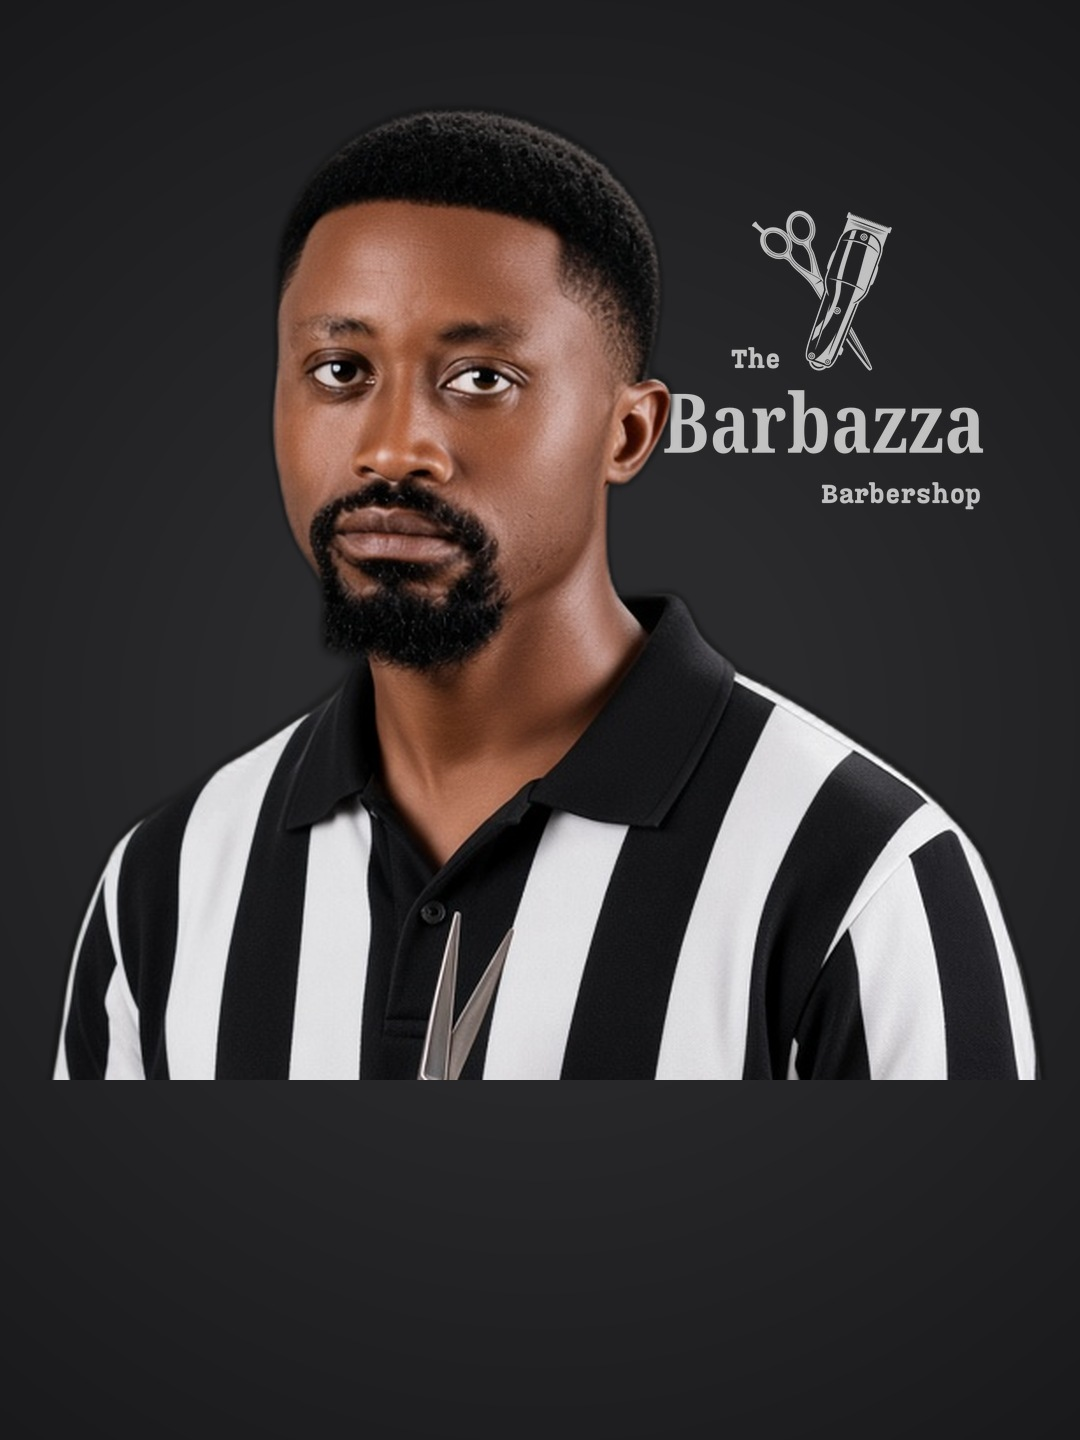
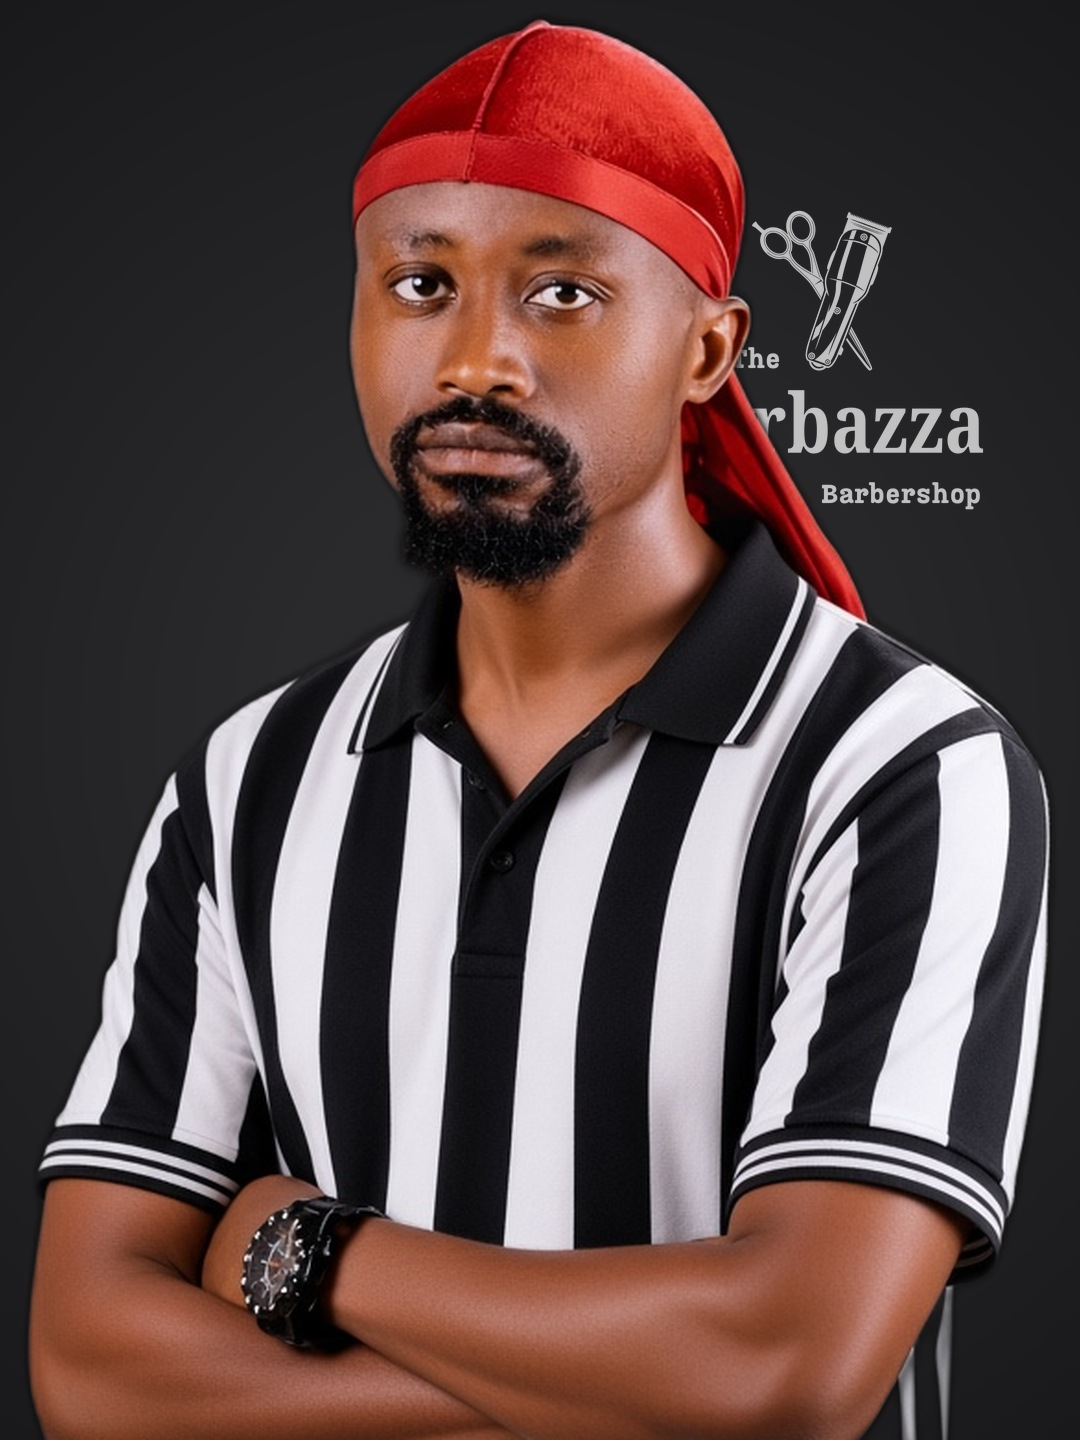
Add Kababa portrait and keep each barber’s original stance in color.

diff --git a/frontend/app/year-one/page.tsx b/frontend/app/year-one/page.tsx
@@ -1373,50 +1373,53 @@ Scene 7  Next / close     → VO → Topic I → walk floor → Topic J → logo
         <section className="ydoc-section" id="team-look">
           <h2>6b. Team in confirmed uniform (black &amp; white)</h2>
           <p>
-            Each barber in the confirmed Barbazza striped polo, holding clippers, black-and-white brand look, logo in
-            the background, different poses. Use as look references for posters / film stills — real faces preserved as
-            closely as the tools allow.
+            Each barber in the confirmed Barbazza striped polo, color portraits, logo in the background, each keeping
+            their own original stance (side, crossed arms, or front). Use as look references for posters / film stills.
           </p>
           <div className="ydoc-figures four">
             <figure className="ydoc-figure">
-              <img src="/year-one/team/barber-irakoze-bw.jpg" alt="Irakoze in Barbazza uniform with clippers" />
+              <img src="/year-one/team/barber-kababa-bw.jpg" alt="Innocent Kababa in Barbazza uniform, arms crossed" />
+              <figcaption>Innocent Kababa</figcaption>
+            </figure>
+            <figure className="ydoc-figure">
+              <img src="/year-one/team/barber-irakoze-bw.jpg" alt="Irakoze in Barbazza uniform" />
               <figcaption>Irakoze</figcaption>
             </figure>
             <figure className="ydoc-figure">
-              <img src="/year-one/team/barber-kabera-bw.jpg" alt="Kabera in Barbazza uniform with clippers" />
+              <img src="/year-one/team/barber-kabera-bw.jpg" alt="Kabera in Barbazza uniform, arms crossed" />
               <figcaption>Kabera</figcaption>
             </figure>
             <figure className="ydoc-figure">
               <img
                 src="/year-one/team/barber-damascene-bw.jpg"
-                alt="Damascene Hakizimana in Barbazza uniform with scissors"
+                alt="Damascene Hakizimana in Barbazza uniform, arms crossed"
               />
               <figcaption>Damascene Hakizimana</figcaption>
-            </figure>
-            <figure className="ydoc-figure">
-              <img src="/year-one/team/barber-flugency-bw.jpg" alt="Flugency in Barbazza uniform with clippers" />
-              <figcaption>Flugency</figcaption>
             </figure>
           </div>
           <div className="ydoc-figures four">
             <figure className="ydoc-figure">
+              <img src="/year-one/team/barber-flugency-bw.jpg" alt="Flugency in Barbazza uniform, arms crossed" />
+              <figcaption>Flugency</figcaption>
+            </figure>
+            <figure className="ydoc-figure">
               <img
                 src="/year-one/team/barber-eric-hakizimana-bw.jpg"
-                alt="Eric Hakizimana in Barbazza uniform with clippers"
+                alt="Eric Hakizimana in Barbazza uniform, arms folded"
               />
               <figcaption>Eric Hakizimana</figcaption>
             </figure>
             <figure className="ydoc-figure">
               <img
                 src="/year-one/team/barber-eric-kwizera-bw.jpg"
-                alt="Eric Kwizera in Barbazza uniform with clippers"
+                alt="Eric Kwizera in Barbazza uniform, arms crossed"
               />
               <figcaption>Eric Kwizera</figcaption>
             </figure>
             <figure className="ydoc-figure">
               <img
                 src="/year-one/team/barber-eric-musabyimana-bw.jpg"
-                alt="Eric Musabyimana in Barbazza uniform with clippers"
+                alt="Eric Musabyimana in Barbazza uniform"
               />
               <figcaption>Eric Musabyimana</figcaption>
             </figure>

diff --git a/frontend/lib/barberPortraits.ts b/frontend/lib/barberPortraits.ts
@@ -1,7 +1,8 @@
-/** Confirmed Barbazza uniform portraits (B&W) keyed by barber code. */
+/** Confirmed Barbazza uniform portraits keyed by barber code. */
 const PORTRAITS_BY_CODE: Record<string, string> = {
   B001: "/barbers/B001.jpg", // Damascene HAKIZIMANA
   B002: "/barbers/B002.jpg", // Eric Musabyimana
+  B003: "/barbers/B003.jpg", // Innocent KABABA
   B005: "/barbers/B005.jpg", // Kwizera Eric
   B007: "/barbers/B007.jpg", // UWINEZA Flugency
   B008: "/barbers/B008.jpg", // Irakoze Barbazza
@@ -14,6 +15,9 @@ const PORTRAITS_BY_NAME: Record<string, string> = {
   "damascene hakizimana": "/barbers/B001.jpg",
   damascene: "/barbers/B001.jpg",
   "eric musabyimana": "/barbers/B002.jpg",
+  "innocent kababa": "/barbers/B003.jpg",
+  kababa: "/barbers/B003.jpg",
+  innocent: "/barbers/B003.jpg",
   "kwizera eric": "/barbers/B005.jpg",
   "uwineza flugency": "/barbers/B007.jpg",
   flugency: "/barbers/B007.jpg",
